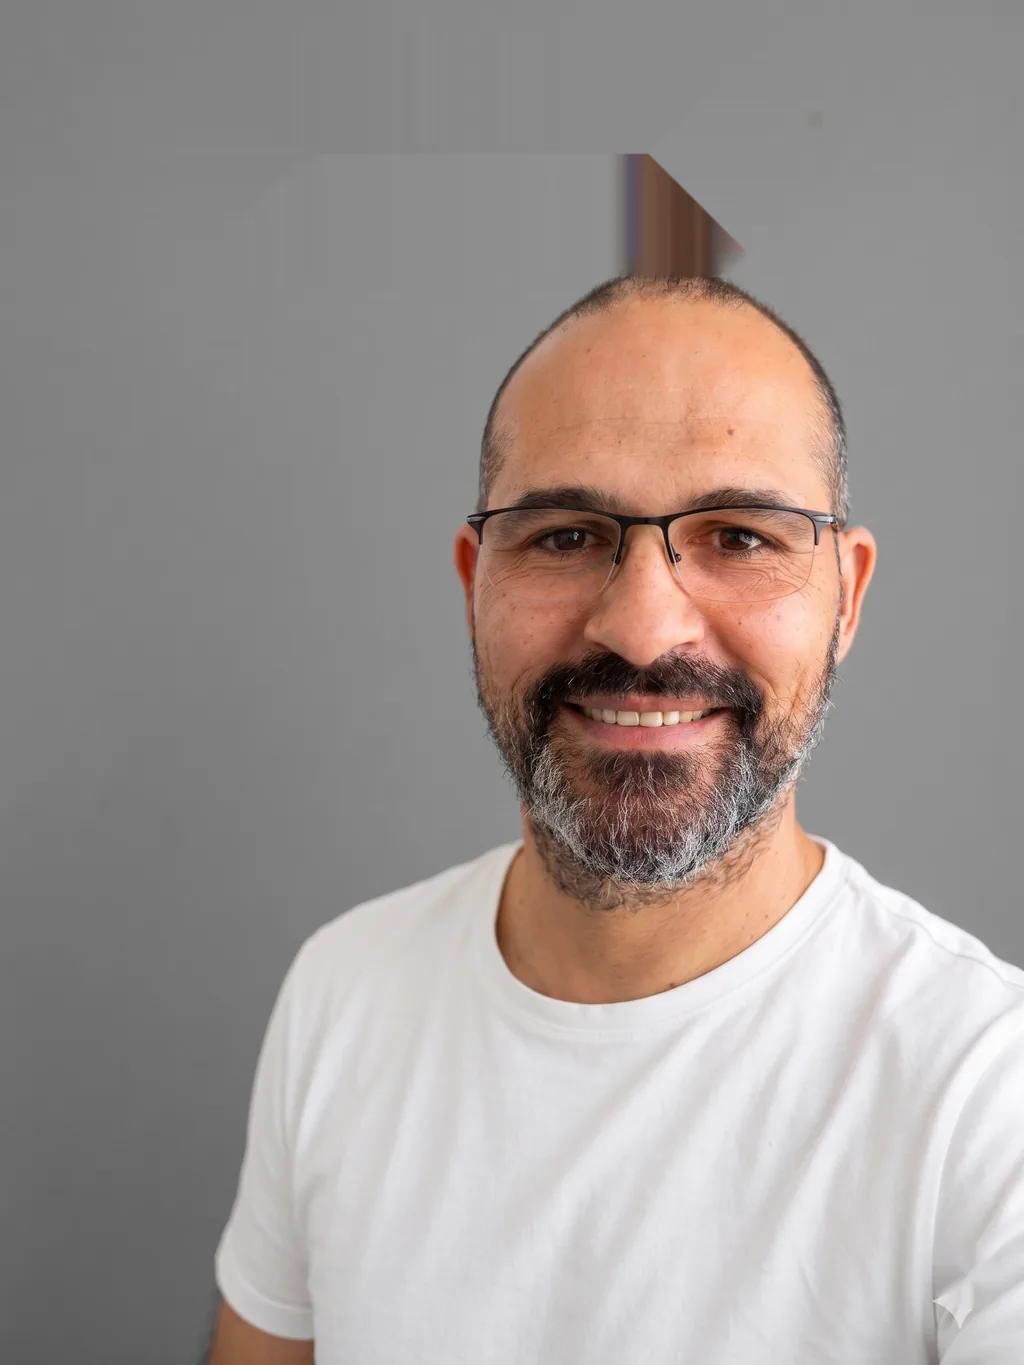
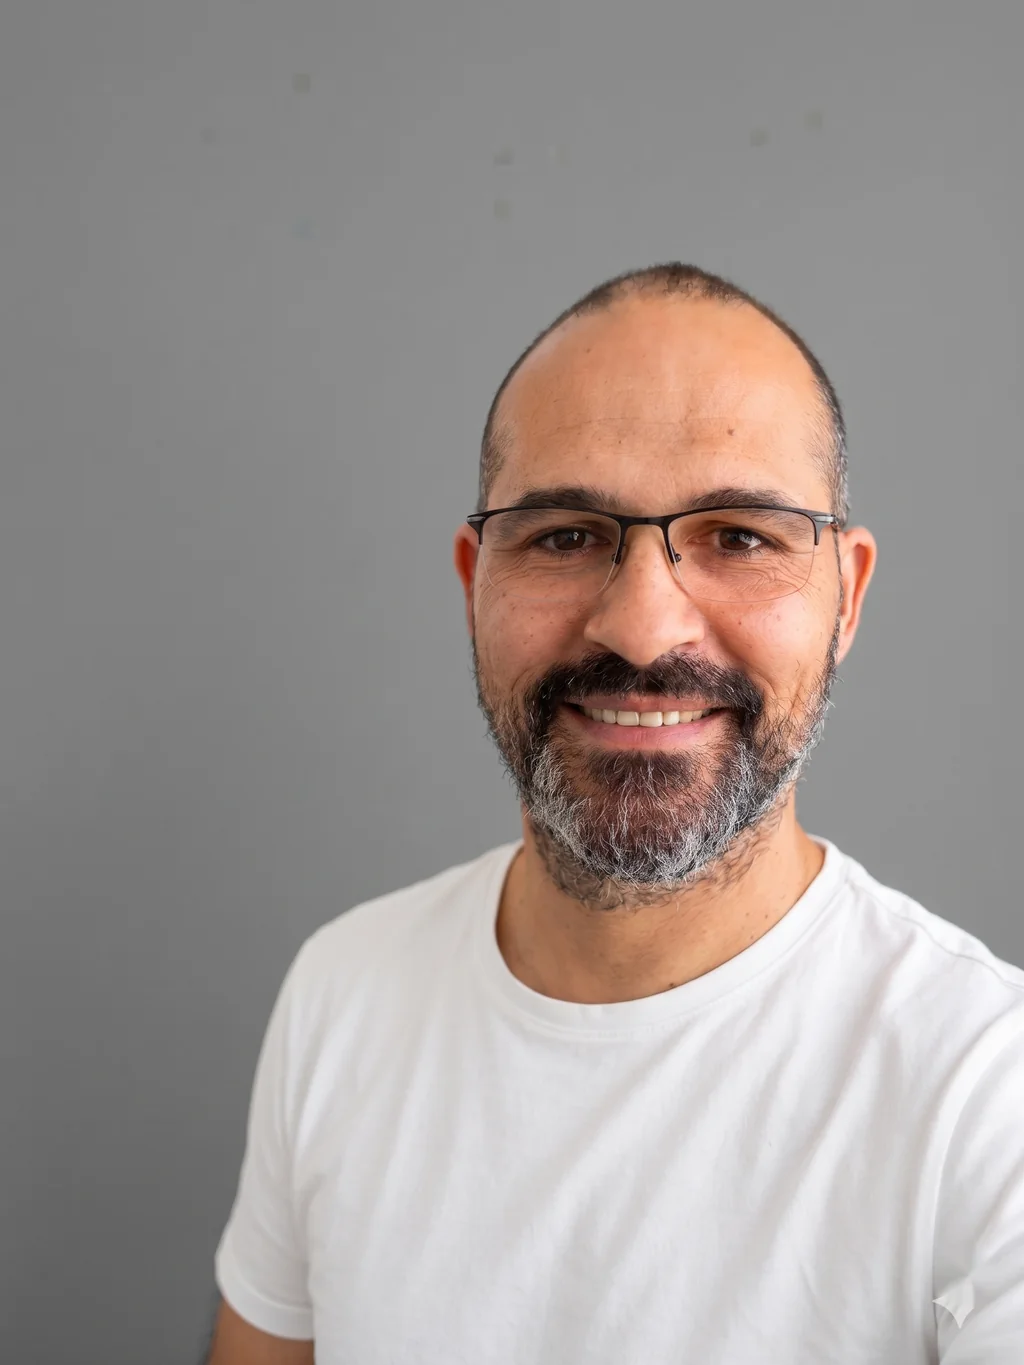
fix(photo): tighter inpaint mask — no more blur halo above head
- v2 uses anomaly detection (gray vs blurred-gray diff) to mask only the
  watermark squares, not a huge rectangle
- Head/face ellipse excluded from mask for extra safety
- Light bilateral smoothing on top band blends residue without blurring head
- Regenerated responsive srcset

Changed region(s): [[0.5938, 0.0923, 0.7188, 0.2154]]

diff --git a/scripts/clean-founder-photo.py b/scripts/clean-founder-photo.py
@@ -1,4 +1,12 @@
-"""Remove Gemini watermarks from founder portrait via targeted inpainting."""
+"""Remove Gemini watermarks from founder portrait via precision mask + inpaint.
+
+Strategy v2 — tighter mask:
+- Detect anomalous pixels in the top-left region (watermark squares differ in
+  luminance/chroma from the smooth gray background).
+- Mask ONLY those small blobs (not a huge rectangle), so the surrounding
+  gradient is preserved and no blurry halo appears above the head.
+- Bottom-right sparkle: small targeted circle.
+"""
 import cv2
 import numpy as np
 from pathlib import Path
@@ -13,36 +21,59 @@ if img is None:
 h, w = img.shape[:2]
 print(f"src: {w}x{h}")
 
-# Build inpainting mask for watermark regions.
-# The Gemini grid watermark in top-left sits within a bounding box of roughly:
-#   x: 350..1300  (about 19% to 73% across)
-#   y: 80..420    (about 3% to 18% down)
-# And the tiny diamond/sparkle near the shirt at roughly (1690, 2230), ~30px radius.
-mask = np.zeros((h, w), dtype=np.uint8)
+# ---------- Top-left watermark: anomaly detection ----------
+# Scan window: upper band where watermark can appear (above shoulders).
+# Keep it conservative: x up to 85% (covers full top), y up to 25% of height.
+band = np.zeros((h, w), dtype=np.uint8)
+band[0:int(h * 0.27), 0:int(w * 0.85)] = 255
 
-# Top-left grid watermark — generous rectangle
-cv2.rectangle(mask, (int(w * 0.18), int(h * 0.025)),
-              (int(w * 0.75), int(h * 0.20)), 255, -1)
+# Exclude the head/face region (roughly centred around x=0.55w, y=0.35h, radius=0.22w).
+# But head is BELOW y=0.27h mostly (face starts around y=0.25h). The top band above
+# shoulder is safe — add extra safety by excluding a head-silhouette wedge.
+cv2.ellipse(band, (int(w * 0.56), int(h * 0.46)), (int(w * 0.34), int(h * 0.42)),
+            0, 0, 360, 0, -1)
 
-# Bottom-right sparkle on shirt — small circle
-cv2.circle(mask, (int(w * 0.945), int(h * 0.935)), 55, 255, -1)
+# Gray-scale, smooth, diff against a heavily blurred version of the same region.
+gray = cv2.cvtColor(img, cv2.COLOR_BGR2GRAY)
+blur = cv2.GaussianBlur(gray, (81, 81), 0)
+diff = cv2.absdiff(gray, blur)
 
-# Dilate slightly so the inpaint grabs enough context
-mask = cv2.dilate(mask, np.ones((5, 5), np.uint8), iterations=2)
+# In the clean gray bg, diff is very low (~0–3). Watermark squares diff ~6–15.
+# Threshold captures squares without catching natural noise.
+_, anomaly = cv2.threshold(diff, 5, 255, cv2.THRESH_BINARY)
+anomaly = cv2.bitwise_and(anomaly, band)
 
-cleaned = cv2.inpaint(img, mask, 9, cv2.INPAINT_TELEA)
+# Drop small specks of natural grain
+kernel = cv2.getStructuringElement(cv2.MORPH_RECT, (3, 3))
+anomaly = cv2.morphologyEx(anomaly, cv2.MORPH_OPEN, kernel, iterations=1)
 
-# Optional: another pass with NS for smoother blend on the large region
-cleaned = cv2.inpaint(cleaned, mask, 9, cv2.INPAINT_NS)
+# Dilate a touch so inpaint has context
+anomaly = cv2.dilate(anomaly, np.ones((7, 7), np.uint8), iterations=2)
+
+# ---------- Bottom-right sparkle ----------
+sparkle = np.zeros((h, w), dtype=np.uint8)
+cv2.circle(sparkle, (int(w * 0.945), int(h * 0.935)), 55, 255, -1)
+sparkle = cv2.dilate(sparkle, np.ones((5, 5), np.uint8), iterations=1)
+
+mask = cv2.bitwise_or(anomaly, sparkle)
+
+# Save mask for debug (optional)
+cv2.imwrite(str(OUT_DIR / "_mask-debug.png"), mask)
+
+cleaned = cv2.inpaint(img, mask, 5, cv2.INPAINT_TELEA)
+# Second pass only on bottom-right for smoother blend on shirt
+cleaned = cv2.inpaint(cleaned, sparkle, 5, cv2.INPAINT_NS)
+
+# Light smoothing of the top background gradient (blends any minor residue)
+top = cleaned[0:int(h * 0.27), :]
+top_smooth = cv2.bilateralFilter(top, 9, 40, 40)
+cleaned[0:int(h * 0.27), :] = top_smooth
 
 OUT_DIR.mkdir(parents=True, exist_ok=True)
-
-# Save the master JPG at quality 90 (good for hero portrait)
-cv2.imwrite(str(OUT), cleaned, [cv2.IMWRITE_JPEG_QUALITY, 90, cv2.IMWRITE_JPEG_PROGRESSIVE, 1])
+cv2.imwrite(str(OUT), cleaned, [cv2.IMWRITE_JPEG_QUALITY, 92, cv2.IMWRITE_JPEG_PROGRESSIVE, 1])
 print(f"wrote {OUT} ({OUT.stat().st_size / 1024:.1f} KB)")
 
-# Also emit a small WebP for the responsive srcset (Next.js with unoptimized images
-# — we'll emit multiple sizes manually).
+# Responsive variants
 from PIL import Image
 pil = Image.fromarray(cv2.cvtColor(cleaned, cv2.COLOR_BGR2RGB))
 for target_w, suffix in [(640, "-sm"), (1024, "-md"), (1600, "-lg")]:
@@ -51,10 +82,9 @@ for target_w, suffix in [(640, "-sm"), (1024, "-md"), (1600, "-lg")]:
     resized = pil.resize((target_w, target_h), Image.LANCZOS)
     path_jpg = OUT_DIR / f"yossi-founder{suffix}.jpg"
     path_webp = OUT_DIR / f"yossi-founder{suffix}.webp"
-    resized.save(path_jpg, "JPEG", quality=86, progressive=True, optimize=True)
-    resized.save(path_webp, "WEBP", quality=82, method=6)
+    resized.save(path_jpg, "JPEG", quality=88, progressive=True, optimize=True)
+    resized.save(path_webp, "WEBP", quality=84, method=6)
     print(f"wrote {path_jpg.name} + {path_webp.name} ({target_w}x{target_h})")
 
-# Master WebP
-pil.save(OUT_DIR / "yossi-founder.webp", "WEBP", quality=85, method=6)
+pil.save(OUT_DIR / "yossi-founder.webp", "WEBP", quality=86, method=6)
 print("done")
